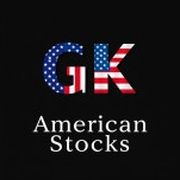
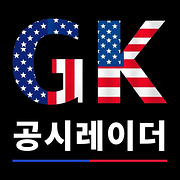
Add files via upload

diff --git a/public/index.html b/public/index.html
@@ -17,18 +17,20 @@
   <meta property="og:url" content="https://gk-stock.com/" />
   <meta property="og:title" content="GK의 공시레이더 | 미국·한국 실시간 공시 + AI 분석" />
   <meta property="og:description" content="미국 SEC·한국 DART 공시와 보도자료를 실시간으로, AI 애널리스트의 핵심 요약과 호재·악재 분석까지." />
-  <meta property="og:image" content="https://gk-stock.com/img/gk-logo.png" />
+  <meta property="og:image" content="https://gk-stock.com/img/og-main.png?v=4" />
+  <meta property="og:image:width" content="1200" />
+  <meta property="og:image:height" content="630" />
   <meta property="og:locale" content="ko_KR" />
-  <meta name="twitter:card" content="summary" />
+  <meta name="twitter:card" content="summary_large_image" />
   <meta name="twitter:title" content="GK의 공시레이더" />
   <meta name="twitter:description" content="미국·한국 실시간 공시 + AI 분석" />
-  <meta name="twitter:image" content="https://gk-stock.com/img/gk-logo.png" />
-  <script type="application/ld+json">{"@context":"https://schema.org","@type":"WebSite","name":"GK의 공시레이더","alternateName":["GK 공시레이더","gk-stock"],"url":"https://gk-stock.com/","inLanguage":"ko","description":"미국 SEC·한국 DART 실시간 공시와 보도자료, AI 분석","publisher":{"@type":"Organization","name":"GK의 미국 주식","url":"https://www.youtube.com/@GK_Stock","logo":"https://gk-stock.com/img/icon-512.png"}}</script>
-  <link rel="icon" href="/favicon.ico" sizes="48x48" />
-  <link rel="icon" type="image/png" sizes="96x96" href="/img/favicon-96.png" />
-  <link rel="icon" type="image/png" sizes="192x192" href="/img/icon-192.png" />
-  <link rel="manifest" href="/manifest.webmanifest" />
-  <link rel="apple-touch-icon" href="/img/apple-touch-icon.png" />
+  <meta name="twitter:image" content="https://gk-stock.com/img/og-main.png?v=4" />
+  <script type="application/ld+json">{"@context":"https://schema.org","@type":"WebSite","name":"GK의 공시레이더","alternateName":["GK 공시레이더","gk-stock"],"url":"https://gk-stock.com/","inLanguage":"ko","description":"미국 SEC·한국 DART 실시간 공시와 보도자료, AI 분석","publisher":{"@type":"Organization","name":"GK의 미국 주식","url":"https://www.youtube.com/@GK_Stock","logo":"https://gk-stock.com/img/icon-512.png?v=4"}}</script>
+  <link rel="icon" href="/favicon.ico?v=4" sizes="48x48" />
+  <link rel="icon" type="image/png" sizes="96x96" href="/img/favicon-96.png?v=4" />
+  <link rel="icon" type="image/png" sizes="192x192" href="/img/icon-192.png?v=4" />
+  <link rel="manifest" href="/manifest.webmanifest?v=4" />
+  <link rel="apple-touch-icon" href="/img/apple-touch-icon.png?v=4" />
   <meta name="apple-mobile-web-app-capable" content="yes" />
   <meta name="mobile-web-app-capable" content="yes" />
   <meta name="apple-mobile-web-app-title" content="공시레이더" />
@@ -38,7 +40,7 @@
   <link rel="preconnect" href="https://fonts.googleapis.com" />
   <link rel="preconnect" href="https://fonts.gstatic.com" crossorigin />
   <link rel="stylesheet" href="https://fonts.googleapis.com/css2?family=JetBrains+Mono:wght@500;600;700&family=Montserrat:wght@600;700;800&display=swap" />
-  <link rel="stylesheet" href="/styles.css?v=108" />
+  <link rel="stylesheet" href="/styles.css?v=113" />
   <script>document.documentElement.classList.add('js');</script>
   <style>.js .ssr{display:none}.ssr{max-width:860px;margin:2rem auto;padding:0 1rem;color:#eef0ff;font-family:sans-serif;line-height:1.7}</style>
 </head>
@@ -52,7 +54,7 @@
     <div class="hdr-in">
       <div class="brand-wrap">
         <a class="brand" href="#home" data-go="home" aria-label="GK의 공시레이더 홈">
-          <img class="brand-logo" src="/img/gk-logo.png" width="44" height="44" alt="GK American Stocks" />
+          <img class="brand-logo" src="/img/gk-logo.png?v=4" width="44" height="44" alt="GK 공시레이더" />
           <span class="brand-txt"><b>GK의 <em>공시레이더</em></b><small>REAL-TIME DISCLOSURE RADAR</small></span>
         </a>
         <a class="yt" href="https://www.youtube.com/@GK_Stock" target="_blank" rel="noopener" title="GK의 미국 주식 유튜브 채널 바로가기">
@@ -287,6 +289,6 @@
   <div class="pop-panel" id="bellPanel" hidden></div>
   <div class="toast" id="toast" hidden></div>
   <button class="to-top" id="toTop" aria-label="맨 위로" title="맨 위로"><svg viewBox="0 0 24 24" aria-hidden="true"><path d="M12 19V5"/><path d="m5 12 7-7 7 7"/></svg><span>맨 위로</span></button>
-  <script src="/app.js?v=108" defer></script>
+  <script src="/app.js?v=113" defer></script>
 </body>
 </html>

diff --git a/web/index.html b/web/index.html
@@ -19,18 +19,20 @@
   <meta property="og:url" content="https://gk-stock.com/" />
   <meta property="og:title" content="GK의 공시레이더 | 미국·한국 실시간 공시 + AI 분석" />
   <meta property="og:description" content="미국 SEC·한국 DART 공시와 보도자료를 실시간으로, AI 애널리스트의 핵심 요약과 호재·악재 분석까지." />
-  <meta property="og:image" content="https://gk-stock.com/img/gk-logo.png" />
+  <meta property="og:image" content="https://gk-stock.com/img/og-main.png?v=4" />
+  <meta property="og:image:width" content="1200" />
+  <meta property="og:image:height" content="630" />
   <meta property="og:locale" content="ko_KR" />
-  <meta name="twitter:card" content="summary" />
+  <meta name="twitter:card" content="summary_large_image" />
   <meta name="twitter:title" content="GK의 공시레이더" />
   <meta name="twitter:description" content="미국·한국 실시간 공시 + AI 분석" />
-  <meta name="twitter:image" content="https://gk-stock.com/img/gk-logo.png" />
-  <script type="application/ld+json">{"@context":"https://schema.org","@type":"WebSite","name":"GK의 공시레이더","alternateName":["GK 공시레이더","gk-stock"],"url":"https://gk-stock.com/","inLanguage":"ko","description":"미국 SEC·한국 DART 실시간 공시와 보도자료, AI 분석","publisher":{"@type":"Organization","name":"GK의 미국 주식","url":"https://www.youtube.com/@GK_Stock","logo":"https://gk-stock.com/img/icon-512.png"}}</script>
-  <link rel="icon" href="/favicon.ico" sizes="48x48" />
-  <link rel="icon" type="image/png" sizes="96x96" href="/img/favicon-96.png" />
-  <link rel="icon" type="image/png" sizes="192x192" href="/img/icon-192.png" />
-  <link rel="manifest" href="/manifest.webmanifest" />
-  <link rel="apple-touch-icon" href="/img/apple-touch-icon.png" />
+  <meta name="twitter:image" content="https://gk-stock.com/img/og-main.png?v=4" />
+  <script type="application/ld+json">{"@context":"https://schema.org","@type":"WebSite","name":"GK의 공시레이더","alternateName":["GK 공시레이더","gk-stock"],"url":"https://gk-stock.com/","inLanguage":"ko","description":"미국 SEC·한국 DART 실시간 공시와 보도자료, AI 분석","publisher":{"@type":"Organization","name":"GK의 미국 주식","url":"https://www.youtube.com/@GK_Stock","logo":"https://gk-stock.com/img/icon-512.png?v=4"}}</script>
+  <link rel="icon" href="/favicon.ico?v=4" sizes="48x48" />
+  <link rel="icon" type="image/png" sizes="96x96" href="/img/favicon-96.png?v=4" />
+  <link rel="icon" type="image/png" sizes="192x192" href="/img/icon-192.png?v=4" />
+  <link rel="manifest" href="/manifest.webmanifest?v=4" />
+  <link rel="apple-touch-icon" href="/img/apple-touch-icon.png?v=4" />
   <meta name="apple-mobile-web-app-capable" content="yes" />
   <meta name="mobile-web-app-capable" content="yes" />
   <meta name="apple-mobile-web-app-title" content="공시레이더" />
@@ -40,7 +42,7 @@
   <link rel="preconnect" href="https://fonts.googleapis.com" />
   <link rel="preconnect" href="https://fonts.gstatic.com" crossorigin />
   <link rel="stylesheet" href="https://fonts.googleapis.com/css2?family=JetBrains+Mono:wght@500;600;700&family=Montserrat:wght@600;700;800&display=swap" />
-  <link rel="stylesheet" href="/styles.css?v=108" />
+  <link rel="stylesheet" href="/styles.css?v=113" />
   <script>document.documentElement.classList.add('js');</script>
   <style>.js .ssr{display:none}.ssr{max-width:860px;margin:2rem auto;padding:0 1rem;color:#eef0ff;font-family:sans-serif;line-height:1.7}</style>
 </head>
@@ -55,7 +57,7 @@
     <div class="hdr-in">
       <div class="brand-wrap">
         <a class="brand" href="#home" data-go="home" aria-label="GK의 공시레이더 홈">
-          <img class="brand-logo" src="/img/gk-logo.png" width="44" height="44" alt="GK American Stocks" />
+          <img class="brand-logo" src="/img/gk-logo.png?v=4" width="44" height="44" alt="GK 공시레이더" />
           <span class="brand-txt"><b>GK의 <em>공시레이더</em></b><small>REAL-TIME DISCLOSURE RADAR</small></span>
         </a>
         <a class="yt" href="https://www.youtube.com/@GK_Stock" target="_blank" rel="noopener" title="GK의 미국 주식 유튜브 채널 바로가기">
@@ -336,6 +338,6 @@
   <div class="pop-panel" id="bellPanel" hidden></div>
   <div class="toast" id="toast" hidden></div>
   <button class="to-top" id="toTop" aria-label="맨 위로" title="맨 위로"><svg viewBox="0 0 24 24" aria-hidden="true"><path d="M12 19V5"/><path d="m5 12 7-7 7 7"/></svg><span>맨 위로</span></button>
-  <script src="/app.js?v=108" defer></script>
+  <script src="/app.js?v=113" defer></script>
 </body>
 </html>

diff --git a/web/styles.css b/web/styles.css
@@ -1799,3 +1799,4 @@ button.br-mv:hover { border-color: var(--accent); }
 }
 @media (min-width: 721px) { .cta-banners.cb-pc .cb { justify-content: flex-start; } .cta-banners.cb-pc .cb b { font-size: 1rem; } .cta-banners.cb-pc .cb small { font-size: .78rem; } }
 @media (min-width: 721px) and (max-width: 1440px) { .cta-banners.cb-pc .cb .cb-arr { display: none; } .cta-banners.cb-pc .cb { padding: .5rem .75rem; gap: .55rem; } .cta-banners.cb-pc .cb b { font-size: .92rem; } .cta-banners.cb-pc .cb small { font-size: .72rem; } }
+

diff --git a/public/sw.js b/public/sw.js
@@ -1,6 +1,6 @@
 // GK의 공시레이더 — 앱 설치용 서비스 워커
 // 항상 최신 데이터를 보여주기 위해 네트워크 우선. 인터넷이 끊겼을 때만 마지막으로 저장한 첫 화면을 보여줌
-const CACHE = 'gk-shell-v1';
+const CACHE = 'gk-shell-v4';
 self.addEventListener('install', (e) => {
   e.waitUntil(caches.open(CACHE).then((c) => c.addAll(['/'])).then(() => self.skipWaiting()));
 });
